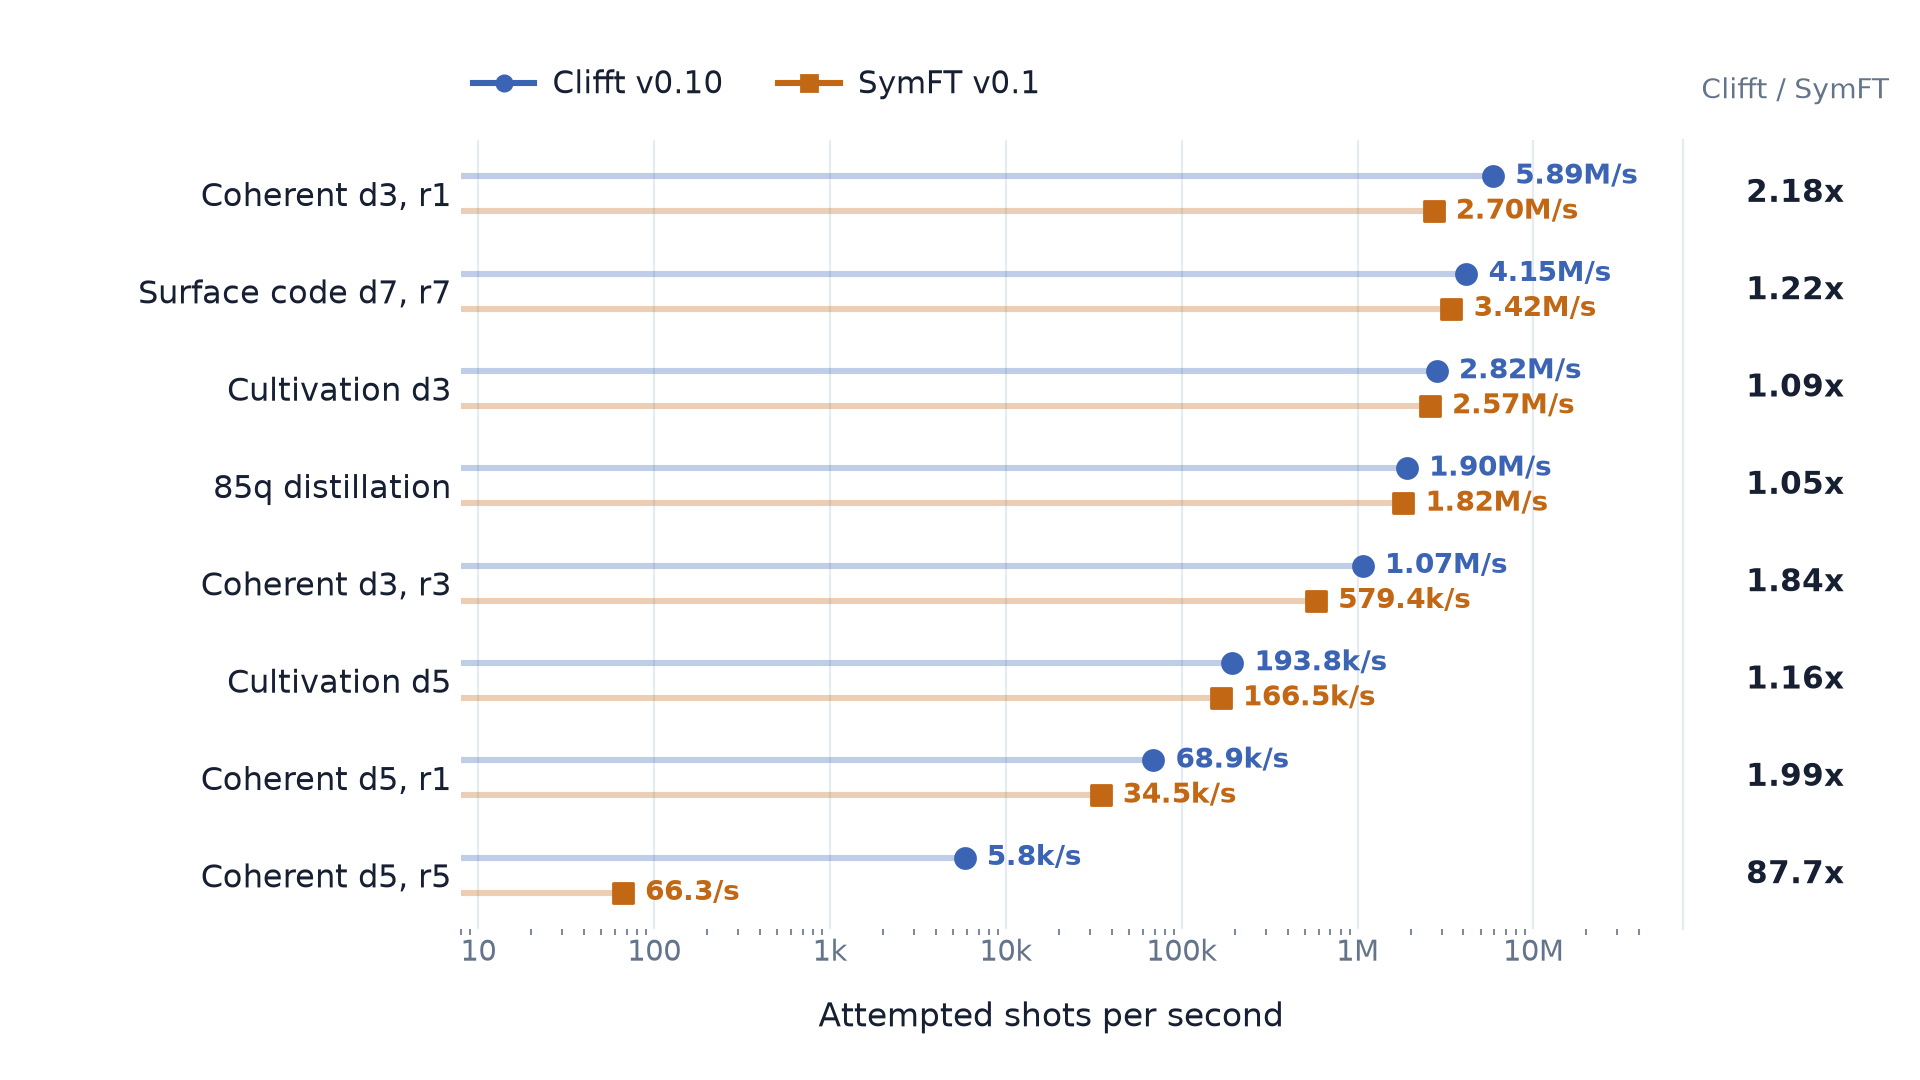
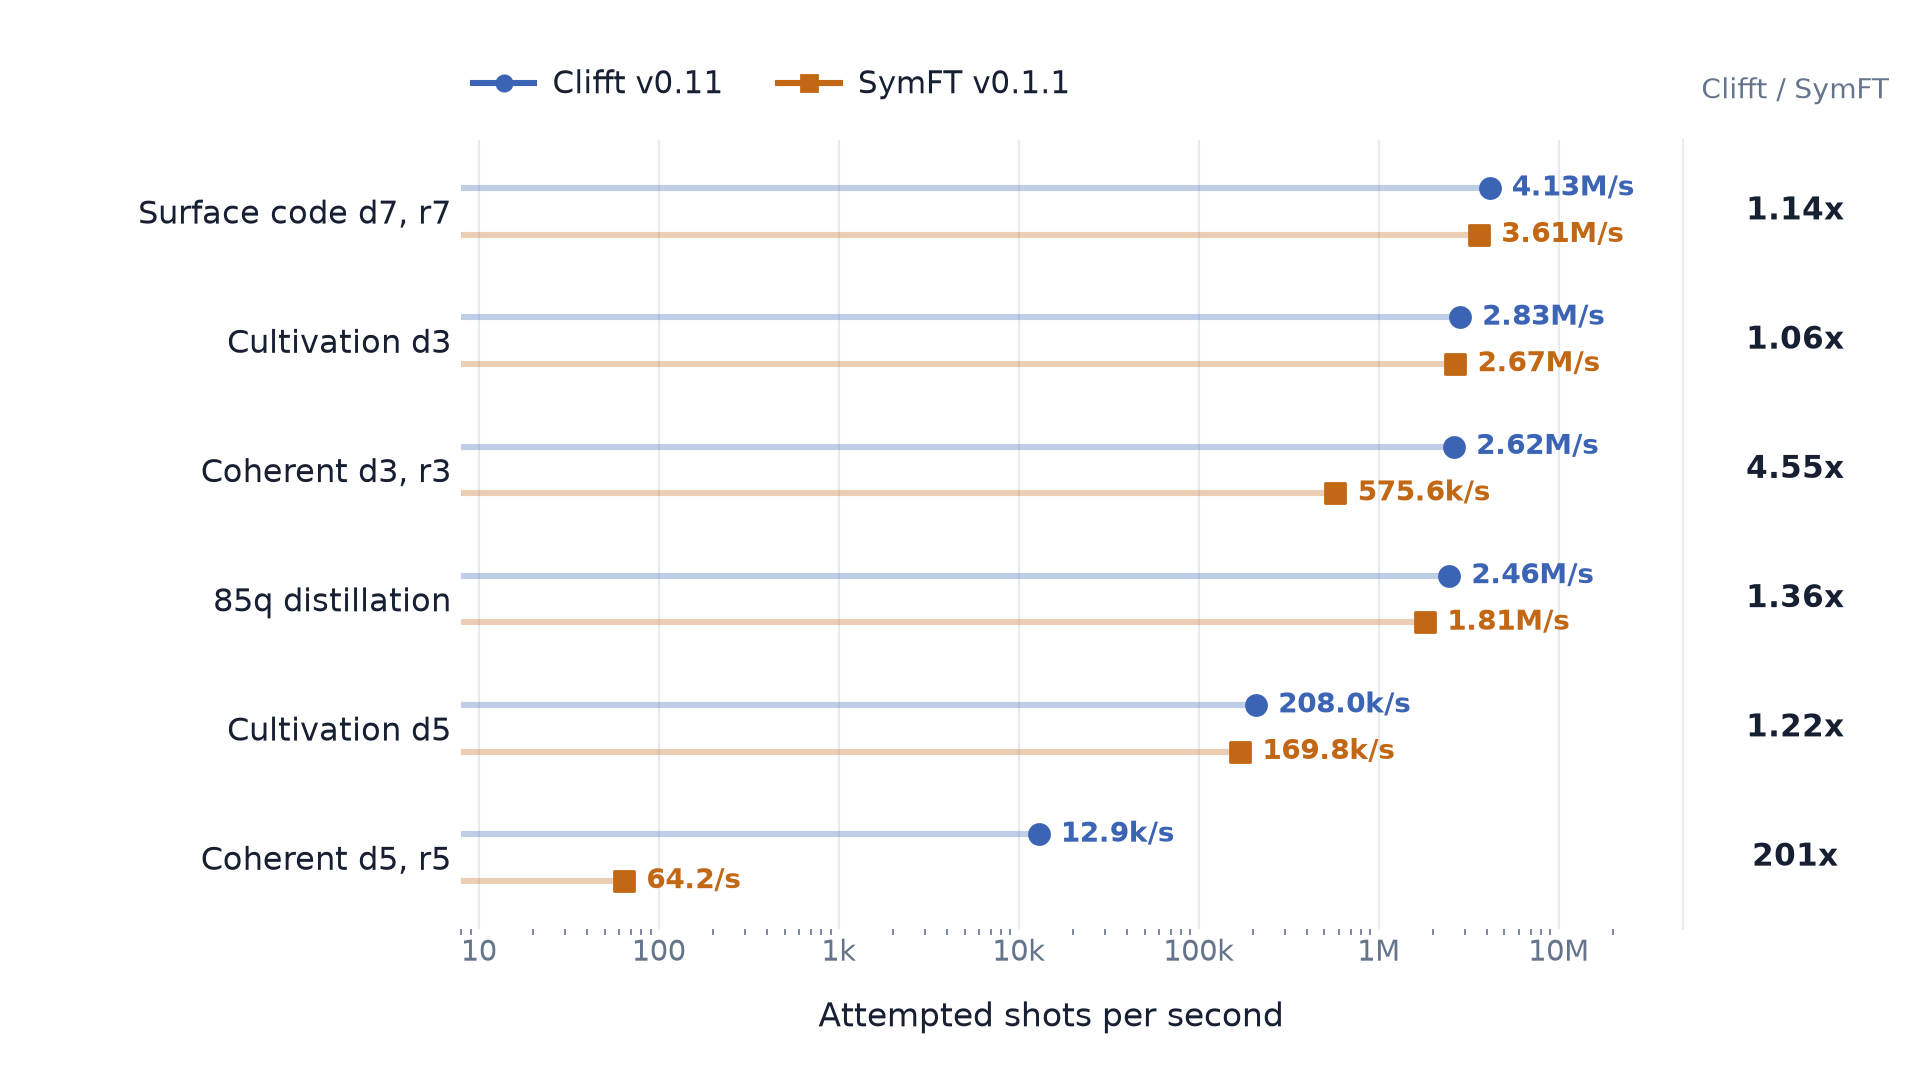
docs: finalize v0.11.0 release documentation
Fold the reviewed release-candidate benchmark results and figures into the release post, performance guide, README, and release notes. Retain explicit candidate provenance and the existing version-labeled Quantum Volume results.

Assisted-by: Codex (GPT-6) <noreply@openai.com>

diff --git a/docs/guide/performance.md b/docs/guide/performance.md
@@ -16,11 +16,17 @@ campaign measures attempted shots per second for complete circuits on one
 pinned logical CPU. For each workload and simulator, it selects the best batch
 size for that workload before collecting the comparison.
 
-![Clifft v0.10 and SymFT v0.1 attempted shots per second across eight near-Clifford workloads, with Clifft speedup ratios](../assets/performance/clifft-symft-throughput-light.png#only-light)
-![Clifft v0.10 and SymFT v0.1 attempted shots per second across eight near-Clifford workloads, with Clifft speedup ratios](../assets/performance/clifft-symft-throughput-dark.png#only-dark)
+The Clifft v0.11 configuration also enables
+[active-width scheduling](compilation.md#active-width-scheduling) with the
+standard settings after the default compiler pipeline. The pass remains opt-in
+in ordinary Clifft use. The comparison measures the combined release
+configuration, including scheduling and the selected batch size.
 
-Clifft is faster than SymFT on all eight workloads. The advantage ranges from
-**1.05x to 87.7x**, with a **1.53x median** across the workload set. The plot
+![Clifft v0.11 and SymFT v0.1.1 attempted shots per second across six near-Clifford workloads, with Clifft speedup ratios](../assets/performance/clifft-symft-throughput-light.png#only-light)
+![Clifft v0.11 and SymFT v0.1.1 attempted shots per second across six near-Clifford workloads, with Clifft speedup ratios](../assets/performance/clifft-symft-throughput-dark.png#only-dark)
+
+Clifft is faster than SymFT on all six workloads. The advantage ranges from
+**1.06x to 201x**, with a **1.29x median** across the workload set. The plot
 shows both tools' absolute rates on a shared logarithmic axis; the right-hand
 column gives Clifft's speedup over SymFT for each workload.
 
@@ -28,12 +34,31 @@ These are attempted-shot rates, so post-selected shots that are later discarded
 still count as simulation work. The run used one placement of an AWS
 `m7a.xlarge` with an AMD EPYC 9R14, Ubuntu 24.04, and one pinned logical CPU.
 Each reported configuration has five timed samples of at least 30 seconds.
+Compilation is measured separately and excluded from sampling throughput.
+
+The Clifft measurements use the published **0.11.0rc1** wheel, with
+**0.10.0rc1** as the previous-release baseline. Plot labels show the intended
+final release versions. SymFT is pinned to version **0.1.1** at upstream commit
+`c89b985`.
 
 See the immutable
-[comparison table](https://github.com/unitaryfoundation/clifft-bench/blob/3a9a2eae6c8a1c144699530b806512a579deacdc/results/release-v1/release-v1-20260903-133252/comparisons.csv)
+[comparison table](https://github.com/unitaryfoundation/clifft-bench/blob/566924f2638a04d87cffa5930a91f3b4b3a48ee7/results/release-v1/release-v1-20260930-180134/comparisons.csv)
 and the
-[benchmark contract](https://github.com/unitaryfoundation/clifft-bench/blob/3a9a2eae6c8a1c144699530b806512a579deacdc/docs/benchmark-contract.md)
+[benchmark contract](https://github.com/unitaryfoundation/clifft-bench/blob/566924f2638a04d87cffa5930a91f3b4b3a48ee7/docs/benchmark-contract.md)
 for the exact software identities, timing boundaries, and result semantics.
+
+### Clifford postselection with Stim
+
+The surface-code d7/r7 circuit provides a separate Clifford comparison with
+Stim. Clifft reaches **4.13 million attempted shots/s**, compared with
+**1.12 million for Stim**, a **3.69x** throughput ratio. Both tools sample the
+same circuit, reject shots with any detector event, and count observable errors
+among survivors.
+
+This comparison uses the official Stim **1.16.0** wheel with calibrated
+chunking. It measures sampling, all-detector postselection, and aggregate
+counts on this workload, with compilation excluded. Clifft's ability to reject
+shots early is part of the measured execution strategy.
 
 ## Performance over time
 
@@ -48,9 +73,18 @@ without moving circuit analysis back into the per-shot execution loop.
 
 The first broad step arrived in [v0.8](../updates/symbolic-sampling.md), when
 symbolic plans replaced the original localized-Pauli virtual machine. Version
-[0.10](../updates/packed-sampling.md) combines another compiler improvement
-with packed sampling: its median throughput is **3.23x v0.9** and **7.0x
-v0.1** across the eight workloads.
+[0.10](../updates/packed-sampling.md) combined another compiler improvement
+with packed sampling. Version [0.11](../updates/less-work-per-shot.md) builds
+on that work with operation scheduling and deferred noise sampling. Its
+median per-workload throughput ratio is **1.20x v0.10**, with gains of
+**2.52x and 2.21x** on the two coherent QEC circuits, **1.30x** on distillation,
+and **1.10x** on cultivation at distance 5. The other two workloads remain
+essentially unchanged.
+
+The history plot reaches a **13.4x median speedup over v0.1**. Every point
+uses the same six-workload reporting core. Earlier release posts used eight
+workloads; the current core omits the two single-round coherent circuits,
+so its historical medians differ from those earlier summaries.
 
 The largest v0.10 gain, 837x on coherent `d=5, r=5`, primarily reflects a
 compiler rewrite that reduced the circuit's peak active width from 24 to 13.
@@ -58,10 +92,11 @@ This is why the release history is best read as the result of the whole
 compile-and-execute system, not as a benchmark of one kernel.
 
 The v0.1 through v0.9 points come from a common
-[history execution](https://github.com/unitaryfoundation/clifft-bench/tree/b1eb8f489b646273538d8a3efcdef5f07a0364d1/results/clifft-history-v1/clifft-history-v1-20260902).
-The v0.10 point chains the paired v0.10/v0.9 ratio from the release run onto
-that history. This avoids treating an absolute difference between two host
-boots as a product change.
+[history execution](https://github.com/unitaryfoundation/clifft-bench/tree/566924f2638a04d87cffa5930a91f3b4b3a48ee7/results/clifft-history-v1/clifft-history-v1-20260902).
+For each workload, the v0.10 and v0.11 points chain the paired ratios from
+their respective release runs onto that history. The plot then takes the
+median across workloads at each version. This avoids treating an absolute
+difference between two host boots as a product change.
 
 ## Dense Quantum Volume circuits
 
@@ -73,7 +108,8 @@ its specialized representation offers the least help.
 ![Execution time for dense Quantum Volume circuits in Clifft, Qiskit Aer, qsim, and Qulacs](../assets/performance/quantum-volume-light.png#only-light)
 ![Execution time for dense Quantum Volume circuits in Clifft, Qiskit Aer, qsim, and Qulacs](../assets/performance/quantum-volume-dark.png#only-dark)
 
-Using 16 physical CPU cores, Clifft records the shortest median execution time
+These are the existing **Clifft 0.10.0rc1** measurements, using 16 physical CPU
+cores. Clifft records the shortest median execution time
 at QV20 and QV22. At QV28 it completes in 24.7 seconds, compared with 29.9
 seconds for Qiskit Aer and 344.9 seconds for Qulacs; qsim leads at 11.4
 seconds. Smaller widths favor tools with lower fixed overhead, and qsim leads
@@ -86,13 +122,12 @@ Clifft is charged for compilation plus one sample, while Qiskit transpilation
 and Qulacs/qsim circuit preparation occur before their timers. It is therefore
 not an equal end-to-end latency comparison. The experiment uses three circuit
 seeds per width on an AWS `c8i.8xlarge`; see the
-[experiment description](https://github.com/unitaryfoundation/clifft-bench/blob/f02d8496ee9269c9fa25a4cf4bdb982ffd8a28e2/experiments/qv/README.md)
+[experiment description](https://github.com/unitaryfoundation/clifft-bench/blob/566924f2638a04d87cffa5930a91f3b4b3a48ee7/experiments/qv/README.md)
 and
-[complete result table](https://github.com/unitaryfoundation/clifft-bench/blob/f02d8496ee9269c9fa25a4cf4bdb982ffd8a28e2/experiments/qv/results/qv-0.10.0rc1-20260902/cases.csv).
+[complete result table](https://github.com/unitaryfoundation/clifft-bench/blob/566924f2638a04d87cffa5930a91f3b4b3a48ee7/experiments/qv/results/qv-0.10.0rc1-20260902/cases.csv).
 
 ## Future benchmark scope
 
-The near-Clifford comparison is CPU-only. A future campaign will cover GPU
-execution, including Tsim, under a separate hardware and measurement contract.
-A pure-Clifford comparison with Stim will likewise be added after the relevant
-Clifft execution changes and benchmark cases land.
+The near-Clifford comparison is CPU-only. GPU benchmarking remains ongoing
+work, including comparisons with Tsim under a separate hardware and measurement
+contract.

diff --git a/docs/updates/less-work-per-shot.md b/docs/updates/less-work-per-shot.md
@@ -1,4 +1,4 @@
-# Less Work per Shot in Clifft (v0.11.0 release candidate)
+# Less Work per Shot in Clifft (v0.11.0, September 2026)
 
 A near-Clifford experiment often compiles one circuit and samples it many
 times. The cost of those shots depends on more than the circuit's qubit count:
@@ -8,9 +8,40 @@ experiments, how far each shot runs before it is rejected.
 The previous two releases expanded how Clifft uses CPU resources, through
 parallel and packed sampling. Version 0.11.0 continues improving CPU sampling
 in two ways: searching for better operation schedules and deferring noise
-sampling until its first use. This post looks at both changes with local A/B
-measurements, then introduces the Sinter integration, ongoing experimental GPU
-work, and the test coverage supporting these execution choices.
+sampling until its first use. The release benchmarks show how these changes
+work together; local A/B measurements then help explain the individual
+trade-offs. The release also introduces a Sinter integration, continues
+experimental GPU work, and expands the tests supporting these execution choices.
+
+## The release in context
+
+The matched single-core `clifft-bench` campaign compares the published
+0.11.0rc1 wheel with 0.10.0rc1 on six QEC workloads. The new release uses the
+opt-in scheduler after the default compiler pipeline, with the standard
+settings. Batch size is calibrated independently for each workload and
+implementation, so the comparison captures the combined release improvements.
+
+![Clifft v0.11 throughput relative to v0.10 across six QEC workloads](../assets/performance/v011-vs-v010-light.png#only-light)
+![Clifft v0.11 throughput relative to v0.10 across six QEC workloads](../assets/performance/v011-vs-v010-dark.png#only-dark)
+
+The coherent circuits improve by **2.52x at d=3, r=3** and **2.21x at
+d=5, r=5**. Distillation improves by **1.30x**, and cultivation at distance 5
+by **1.10x**. Cultivation at distance 3 and Clifford surface-code sampling
+remain essentially unchanged. The median per-workload improvement is **20%**.
+
+Filled markers show workloads where 0.11 selected packed execution; hollow
+markers show scalar execution. Coherent d3 now benefits from a calibrated
+batch of 2,048 shots, while coherent d5 remains scalar. The scheduler reduces
+peak active width from 5 to 4 on coherent d3 and from 5 to 3 on distillation.
+Its coherent d5 schedule does less estimated dense work at the same peak width.
+
+These are sampling rates with compilation measured separately. The run used
+one pinned logical CPU on an AWS `m7a.xlarge`, with five samples of at least
+30 seconds per configuration. The
+[comparison table](https://github.com/unitaryfoundation/clifft-bench/blob/566924f2638a04d87cffa5930a91f3b4b3a48ee7/results/release-v1/release-v1-20260930-180134/comparisons.csv)
+retains the exact candidate identities; the
+[Performance guide](../guide/performance.md) covers absolute rates, comparisons
+with other tools, and the release history.
 
 ## Schedule for lower active width
 
@@ -31,6 +62,8 @@ pass, using its default settings. The table reports sampling throughput with
 the pass enabled relative to disabled, and compilation time separately.
 Values above 1 mean faster sampling; values below 1 mean slower sampling.
 These are local single-thread scalar measurements on four repository fixtures.
+They isolate scheduling with the same build and execution mode. The release
+comparison above also includes the other sampling changes and batch calibration.
 
 | Circuit | Peak width off / on | Compile ms off / on | Sampling throughput on / off |
 | --- | ---: | ---: | ---: |
@@ -73,6 +106,13 @@ we wanted to explore broader QEC workflows beyond standalone sampling calls.
 Connecting to Sinter is a practical first step toward both: existing
 experiments can try Clifft while retaining Sinter's collection and analysis
 workflow.
+
+The standalone sampler benchmark now provides a concrete Clifford example:
+on surface-code d7/r7 with all-detector postselection, Clifft reaches
+**4.13 million attempted shots/s**, compared with **1.12 million for Stim**,
+a **3.69x** ratio under the same sampling protocol. See the
+[Performance guide](../guide/performance.md#clifford-postselection-with-stim)
+for the configuration and scope of that comparison.
 
 The new optional `clifft.sinter.PerfectionistSampler` supports experiments
 that accept a shot only when every detector is quiet. Any logical observable

diff --git a/CHANGELOG.md b/CHANGELOG.md
@@ -6,7 +6,9 @@ The format is based on [Keep a Changelog](https://keepachangelog.com/), and this
 
 ## [0.11.0] - 2026-09-30
 
-Clifft 0.11.0 adds an opt-in scheduler that searches for operation schedules with lower peak active width or less work at larger widths, defers scalar noise sampling until its first use, and introduces a Sinter-compatible sampler. Local single-thread scalar A/B measurements on four fixtures ranged from 0.86x to 2.31x sampling throughput with scheduling enabled, including both gains and a slowdown. See [Less Work per Shot in Clifft](https://unitaryfoundation.github.io/clifft/stable/updates/less-work-per-shot/) for the development story and local A/B measurements.
+Clifft 0.11.0 adds an opt-in scheduler that searches for operation schedules with lower peak active width or less work at larger widths, defers scalar noise sampling until its first use, and introduces a Sinter-compatible sampler. See [Less Work per Shot in Clifft](https://unitaryfoundation.github.io/clifft/stable/updates/less-work-per-shot/) for the development story, release results, and local A/B measurements.
+
+The matched single-core QEC campaign, using 0.11.0rc1 with scheduling enabled and independently calibrated batch sizes, records a 1.20x median per-workload throughput ratio over 0.10.0rc1 across six workloads. The coherent circuits improve by 2.52x and 2.21x, distillation by 1.30x, and cultivation at distance 5 by 1.10x; the other two workloads remain essentially unchanged. See [Performance](https://unitaryfoundation.github.io/clifft/stable/guide/performance/) for absolute rates, the SymFT and Stim comparisons, and measurement details.
 
 The release extends the experimental AMD HIP backend with cooperative execution for wider active states and introduces an experimental NVIDIA CUDA backend. Thanks to @josemonsalve2 and AMD for the HIP contributions, and @FarLab for the CUDA backend. Both backends require explicit source builds, are outside the stable API, and are never selected automatically.
 
@@ -43,6 +45,7 @@ The shared test suite now checks sampling features across supported CPU and GPU 
 
 ### Documentation
 
+- Added the v0.11.0 development post and refreshed the performance guide, release-history figures, and release comparisons from the reviewed candidate benchmark results. Existing Quantum Volume measurements remain explicitly labeled as 0.10.0rc1.
 - Corrected links to versioned documentation, by @bachase in [#486](https://github.com/unitaryfoundation/clifft/pull/486).
 
 ## [0.10.1] - 2026-09-14

diff --git a/docs/index.md b/docs/index.md
@@ -105,10 +105,17 @@ operation orders with lower peak active width or less work at larger widths;
 deferred noise draws let postselected shots avoid later noise work after
 rejection.
 
-Early testing suggested that Clifft could be competitive with Stim on some
-Clifford error-detection circuits. The new
-[Sinter-compatible sampler](guide/sinter.md) makes those workloads accessible
-through Sinter's experiment collection tools and is a first step toward
+The matched single-core release campaign puts these changes in context. With
+the scheduler enabled and batch sizes calibrated for each workload, throughput
+is **2.52x and 2.21x** the previous release on the two coherent QEC circuits,
+**1.30x** on distillation, and **1.10x** on cultivation at distance 5.
+Cultivation at distance 3 and Clifford surface-code sampling remain essentially
+unchanged. See [Performance](guide/performance.md) for the comparisons and
+measurement details.
+
+Clifft's performance on Clifford error-detection circuits also motivated the
+new [Sinter-compatible sampler](guide/sinter.md). It brings all-detector
+postselection to Sinter's experiment collection tools and is a first step toward
 exploring broader QEC workflows.
 
 Experimental GPU work also continues, exploring workloads that could benefit
@@ -125,7 +132,7 @@ The shared test suite has grown alongside these execution choices: feature
 tests run across the modes that support them, and new backends inherit the
 existing tests for their supported features. Read
 [Less Work per Shot in Clifft](updates/less-work-per-shot.md) for the development
-story and local A/B measurements, or see the
+story, release results, and local A/B measurements, or see the
 [full release notes](https://github.com/unitaryfoundation/clifft/blob/main/CHANGELOG.md).
 
 ## What's New in 0.10.1

diff --git a/README.md b/README.md
@@ -77,8 +77,12 @@ usually associated with specialized Clifford tools.
 
 <picture>
   <source media="(prefers-color-scheme: dark)" srcset="https://raw.githubusercontent.com/unitaryfoundation/clifft/main/docs/assets/performance/clifft-throughput-dark.png">
-  <img src="https://raw.githubusercontent.com/unitaryfoundation/clifft/main/docs/assets/performance/clifft-throughput-light.png" alt="Clifft v0.10 attempted shots per second across eight near-Clifford workloads">
+  <img src="https://raw.githubusercontent.com/unitaryfoundation/clifft/main/docs/assets/performance/clifft-throughput-light.png" alt="Clifft v0.11 attempted shots per second across six near-Clifford workloads">
 </picture>
+
+With active-width scheduling enabled, the v0.11 release campaign improves
+median per-workload throughput by **20% over v0.10**, with gains up to
+**2.52x**. Batch sizes are calibrated for each workload and implementation.
 
 See the [Performance guide](https://unitaryfoundation.github.io/clifft/stable/guide/performance/)
 for comparisons with other simulators, release history, dense Quantum Volume
